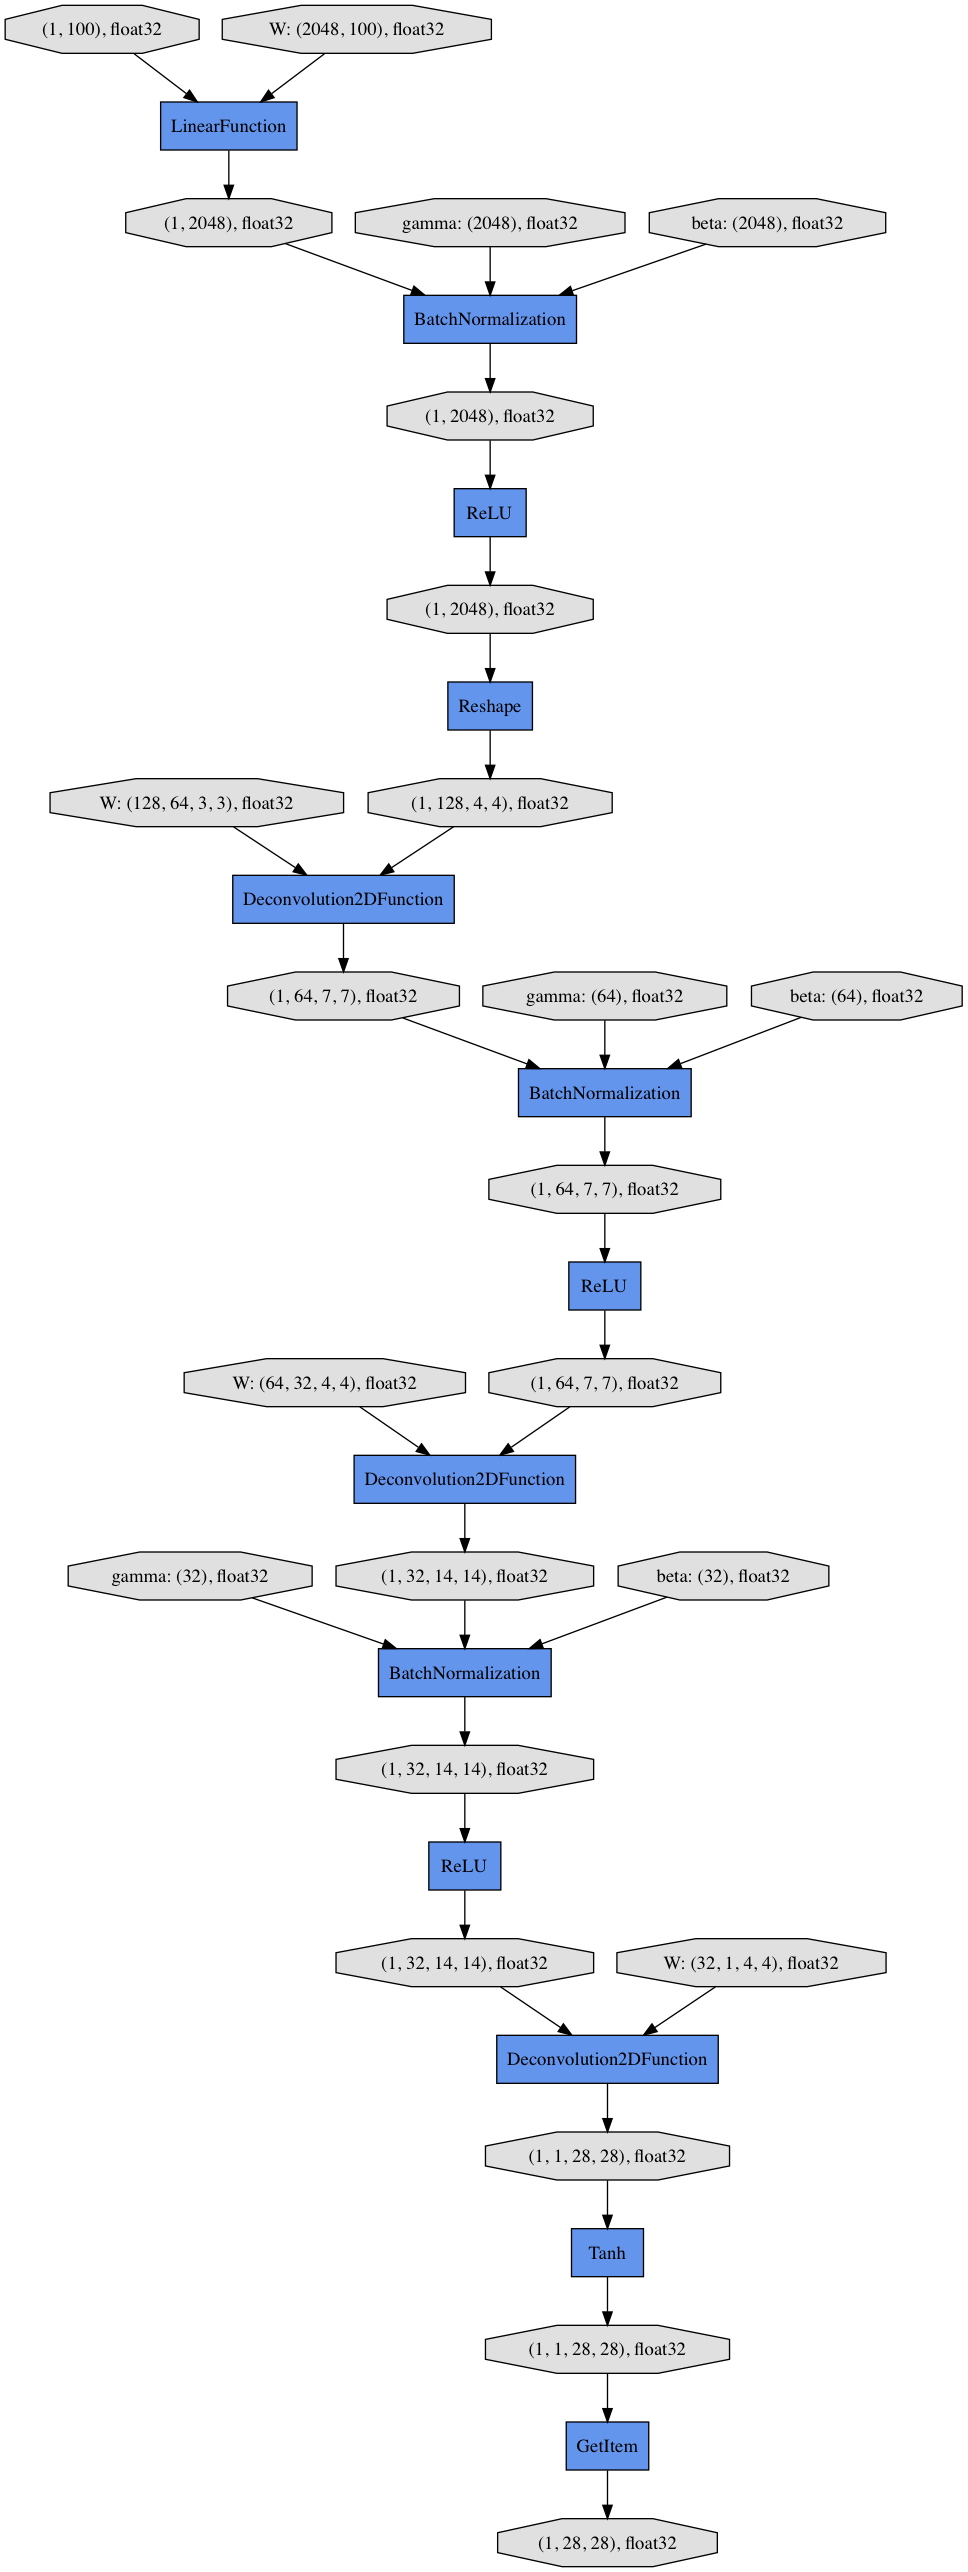
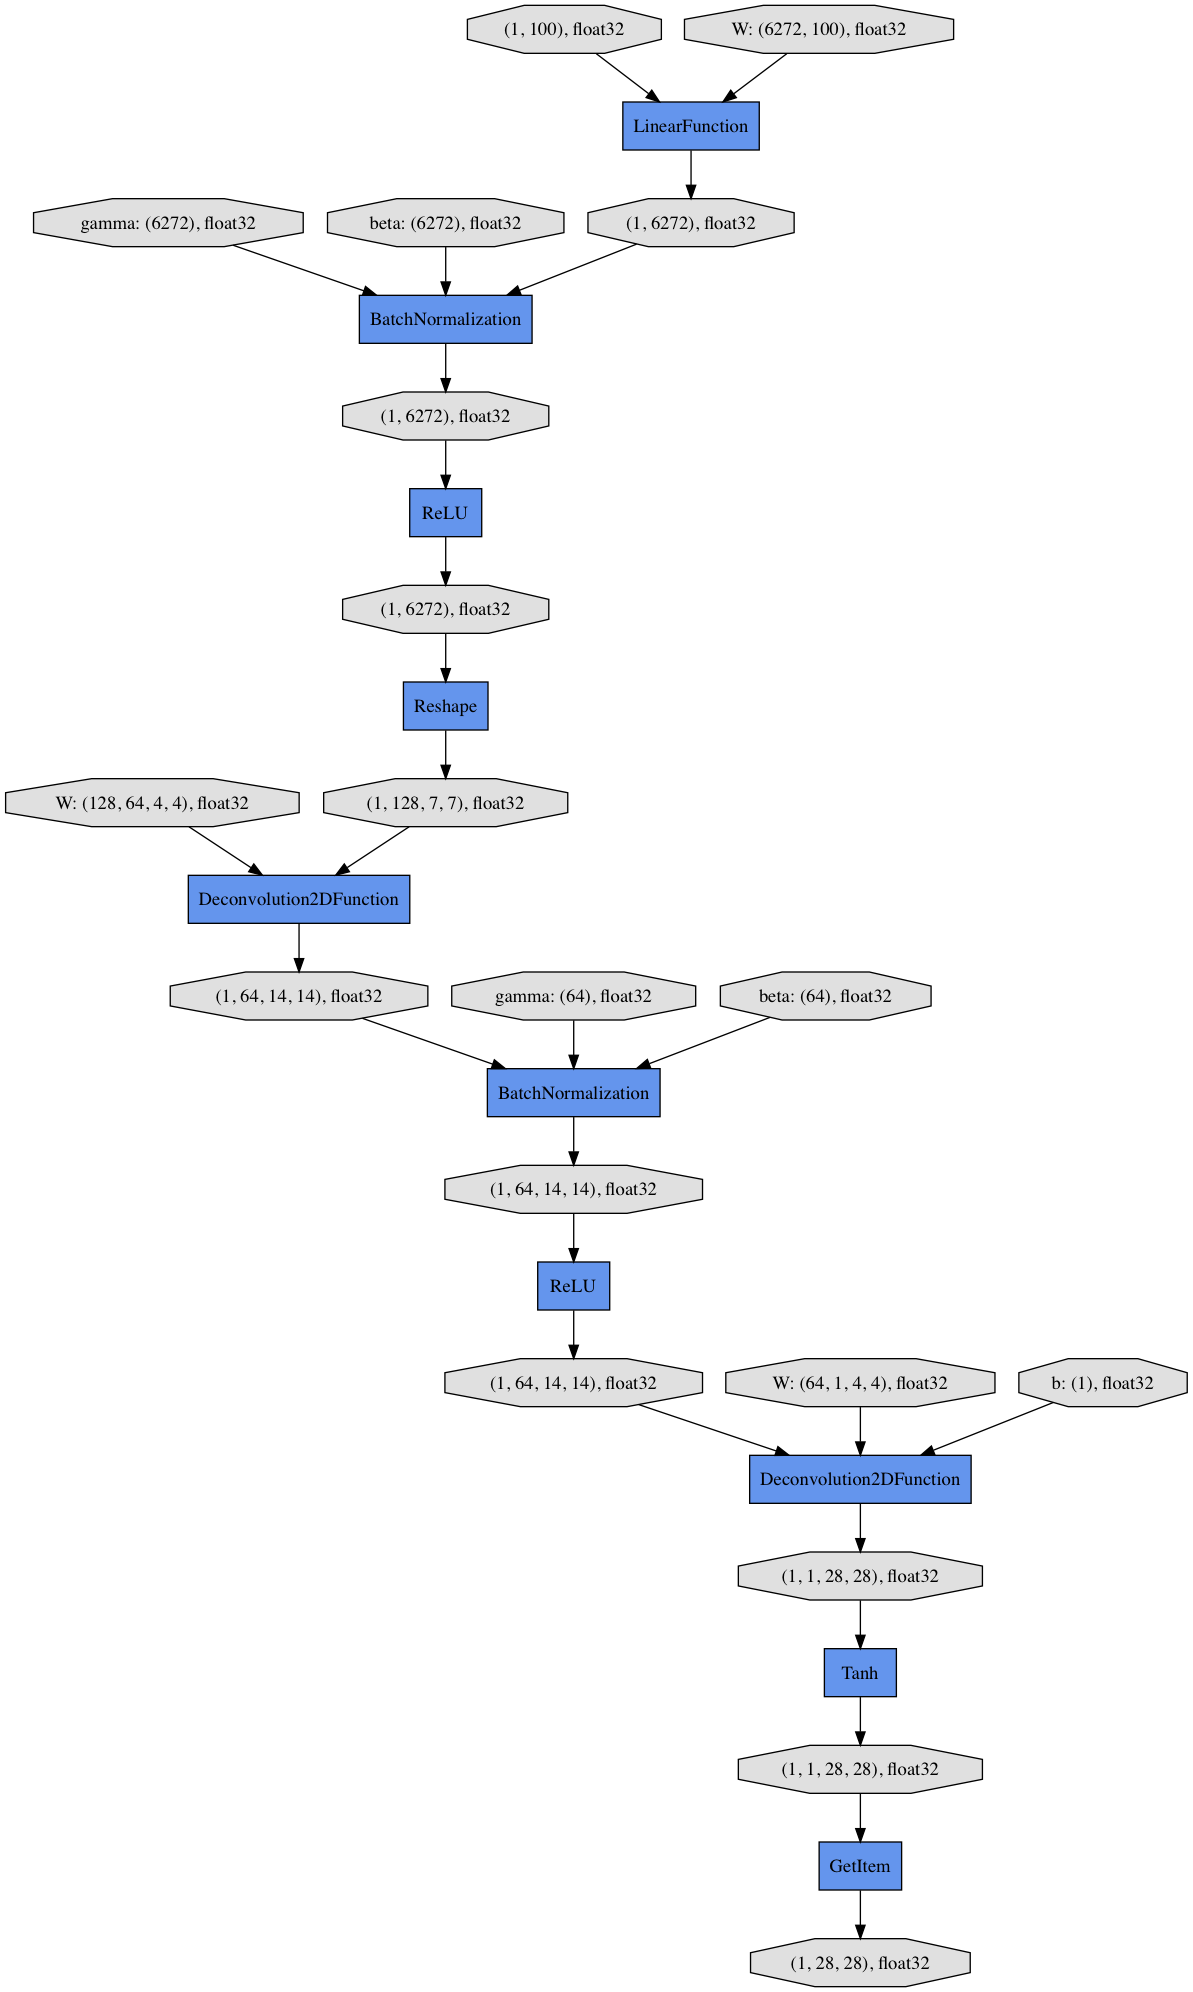
reduce parameters

Changed region(s): [[0.0, 0.0, 1.0, 1.0], [0.7748, 0.3735, 1.0, 0.4046]]

diff --git a/discriminator.py b/discriminator.py
@@ -5,7 +5,23 @@ import chainer.links as L
 
 
 class Discriminator(chainer.Chain):
-    def __init__(self, bottom_width=3, ch=1, wscale=0.02):
+    """Discriminator
+
+    build Discriminator model
+
+    Parametors
+    ---------------------
+    in_ch: int
+       Channel when converting the output of the first layer
+       to the 4-dimensional tensor
+
+    wscale: float
+        std of normal initializer
+    Attributes
+    ---------------------
+    """
+
+    def __init__(self, in_ch=1, wscale=0.02):
         super(Discriminator, self).__init__()
         with self.init_scope():
             # initializers
@@ -13,7 +29,7 @@ class Discriminator(chainer.Chain):
 
             # register layer with variable
             self.c0 = L.Convolution2D(
-                in_channels=ch,
+                in_channels=in_ch,
                 out_channels=64,
                 ksize=4,
                 stride=2,
@@ -21,12 +37,13 @@ class Discriminator(chainer.Chain):
                 initialW=w)
             self.c1 = L.Convolution2D(
                 in_channels=None,
-                out_channels=32,
+                out_channels=128,
                 ksize=4,
                 stride=2,
                 pad=1,
                 initialW=w,
                 nobias=True)
+            """
             self.c2 = L.Convolution2D(
                 in_channels=None,
                 out_channels=16,
@@ -35,16 +52,17 @@ class Discriminator(chainer.Chain):
                 pad=1,
                 initialW=w,
                 nobias=True)
-            self.l3 = L.Linear(in_size=None, out_size=1, initialW=w)
+            """
+            self.l2 = L.Linear(in_size=None, out_size=1, initialW=w)
 
-            self.bn1 = L.BatchNormalization(size=32)
-            self.bn2 = L.BatchNormalization(size=16)
+            self.bn1 = L.BatchNormalization(size=128)
+            # self.bn2 = L.BatchNormalization(size=16)
 
     def __call__(self, x):
         h = F.leaky_relu(self.c0(x))
         h = F.leaky_relu(self.bn1(self.c1(h)))
-        h = F.leaky_relu(self.bn2(self.c2(h)))
-        y = self.l3(h)  # conv->linear では勝手にreshapeが適用される
+        # h = F.leaky_relu(self.bn2(self.c2(h)))
+        y = self.l2(h)  # conv->linear では勝手にreshapeが適用される
 
         return y
 

diff --git a/generator.py b/generator.py
@@ -26,7 +26,7 @@ class Generator(chainer.Chain):
     ---------------------
     """
 
-    def __init__(self, n_hidden=100, bottom_width=4, ch=128, wscale=0.02):
+    def __init__(self, n_hidden=100, bottom_width=7, ch=128, wscale=0.02):
         super(Generator, self).__init__()
         self.n_hidden = n_hidden
         self.ch = ch
@@ -41,11 +41,12 @@ class Generator(chainer.Chain):
             self.dc1 = L.Deconvolution2D(
                 in_channels=None,
                 out_channels=ch // 2,
-                ksize=3,
+                ksize=4,
                 stride=2,
                 pad=1,
                 initialW=w,
-                nobias=True)  # (, 7, 7)
+                nobias=True)  # (, 14, 14)
+            """
             self.dc2 = L.Deconvolution2D(
                 in_channels=None,
                 out_channels=ch // 4,
@@ -54,17 +55,17 @@ class Generator(chainer.Chain):
                 pad=1,
                 initialW=w,
                 nobias=True)  # (, 14, 14)
-            self.dc3 = L.Deconvolution2D(
+            """
+            self.dc2 = L.Deconvolution2D(
                 in_channels=None,
                 out_channels=1,
                 ksize=4,
                 stride=2,
                 pad=1,
-                initialW=w,
-                nobias=True)  # (1, 28, 28)
+                initialW=w)  # (1, 28, 28)
             self.bn0 = L.BatchNormalization(bottom_width * bottom_width * ch)
             self.bn1 = L.BatchNormalization(ch // 2)
-            self.bn2 = L.BatchNormalization(ch // 4)
+            # self.bn2 = L.BatchNormalization(ch // 4)
 
     def make_hidden(self, batchsize):
         """
@@ -81,8 +82,9 @@ class Generator(chainer.Chain):
         h = F.reshape(h, (len(z), self.ch, self.bottom_width,
                           self.bottom_width))  # dataformat is NCHW
         h = F.relu(self.bn1(self.dc1(h)))
-        h = F.relu(self.bn2(self.dc2(h)))
-        x = F.tanh(self.dc3(h))
+        x = F.tanh(self.dc2(h))
+        # h = F.relu(self.bn2(self.dc2(h)))
+        # x = F.tanh(self.dc3(h))
         return x
 
 

diff --git a/train.py b/train.py
@@ -7,6 +7,8 @@ from generator import Generator
 # from updater import DCGANUpdater
 from updater_origin import DCGANUpdater
 from visualize import out_generated_image
+import matplotlib.pyplot as plt
+plt.style.use("ggplot")
 
 
 def main():
@@ -15,7 +17,7 @@ def main():
     n_hidden = 100
     epoch = 20
     seed = 0
-    number = 1  # number of experiments
+    number = 2  # number of experiments
     out = "result_{0}_{1}".format(number, seed)
 
     print('GPU: {}'.format(gpu))
